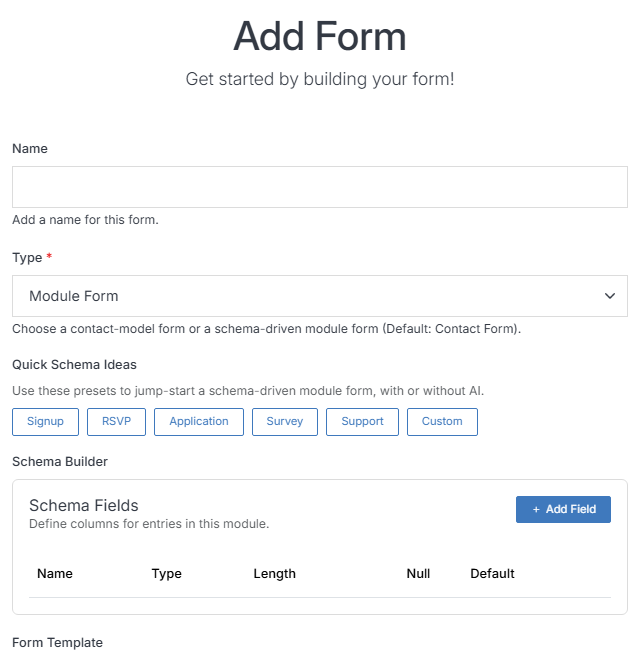
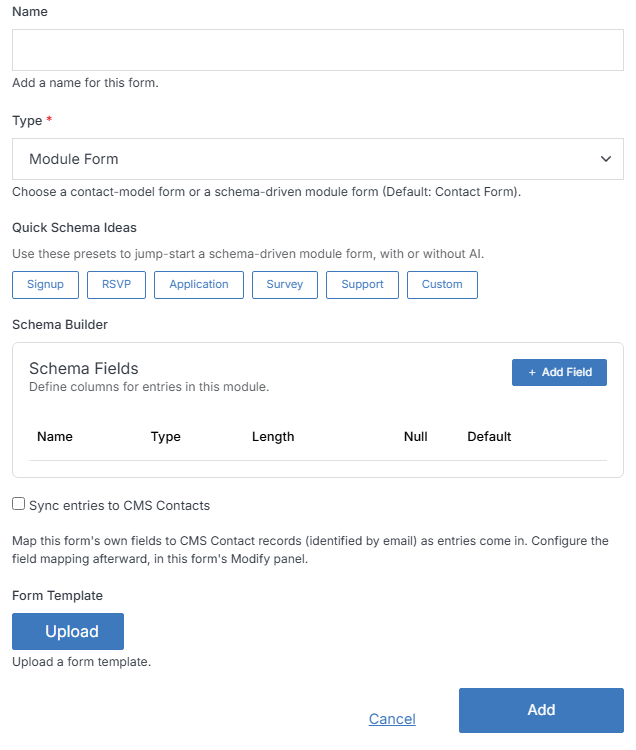
docs(forms): document CMS Contact Mapping and the Module Form sync option
Covers both Add Form options end to end:

- Add Form > Module Form: documents the new "Sync entries to CMS
  Contacts" checkbox, and re-shoots the screenshot to show it (the old
  one cut off before that part of the panel). Updated the personal-data
  warning to note this checkbox is exactly the escape hatch for it.
- Forms overview note: mentions the checkbox as a way to get Module
  Form's flexible schema without the personal-data-sprawl tradeoff the
  note otherwise warns about.
- Modify: new "CMS Contact Mapping" section (only shown once syncing is
  enabled) - the field-mapper UI, the required Email destination/
  dedupe-key behavior, the default identity mapping a form starts with,
  and that sync runs identically regardless of how an entry was
  created (CMS, public form, API, MCP). New screenshot of the section
  with a real custom mapping.

Verified with a real `retype build` - 0 errors, output checked in a
browser at both pages.

diff --git a/src/Forms/Form Overview/Modify/index.md b/src/Forms/Form Overview/Modify/index.md
@@ -93,6 +93,29 @@ Field | Which field on that module the relationship uses.
 
 Connection details for reading this form's submissions via the REST API -- identical to [Module Overview's API Info](/modules/module-overview/modify/#api-info).
 
+## CMS Contact Mapping
+
+Only appears once **Sync entries to CMS Contacts** has been turned on for this form -- either when it was [added](/forms/add-form/#module-form), or by switching it on here. Maps this form's own field names to the standard [Contact](/organization/contacts/) fields, so every submission also creates or updates a Contact record alongside its entry in this module's own table.
+
+<p><img src="../../../images/forms/form-modify-contact-mapping.png" alt="CMS Contact Mapping section with a custom field mapping"></p>
+
+**Name** | **Description**
+:--- | ---
+Add Mapping | Add a new source/destination row.
+Left column | One of this form's own field names, exactly as it appears in [Table Schema](#table-schema) -- `work_email`, `first_name`, whatever you actually called it.
+Right column | The Contact field that source maps to: **Email**, **First Name**, **Last Name**, or **Primary Phone**.
+Trash icon | Remove a mapping row.
+
+The same mapping is also editable as raw JSON underneath the row editor -- `{"work_email": "email", "first_name": "givenname"}` -- if you'd rather paste one in directly than build it row by row.
+
+!!! Note:
+**An Email destination is required.** It's the one field the sync uses to decide whether a submission is a new Contact or an update to an existing one -- resubmitting with the same email updates that Contact's name and phone rather than creating a duplicate. A mapping with no field pointed at Email won't save.
+!!!
+
+A form switched on via **Sync entries to CMS Contacts** starts with an identity mapping (`email` to Email, `givenname` to First Name, `sn` to Sn, `primaryphone` to Primary Phone) already saved -- convenient if your schema happens to use those exact names, but most schemas don't, so open this section and re-point each row at your own field names once the form's fields are in place. Source fields not present in a given submission are simply skipped, so it's safe to map more fields than any one entry actually fills in.
+
+Sync runs from the same place regardless of how an entry was created or updated -- the CMS's own Add/Update Entry, a public visitor submitting the live form, the REST API, or MCP all go through it identically.
+
 ## Advanced Options
 
 Most of this section matches [Module Overview's Advanced Options](/modules/module-overview/modify/#advanced-options) (Custom Icon, Geo-Coded Fields, Field Name to use in URL, Error Document, Asset Fields, Post Processing, Export/Delete), plus a few fields specific to public-facing forms:

diff --git a/src/Forms/Add Form/index.md b/src/Forms/Add Form/index.md
@@ -29,7 +29,7 @@ Add | Click **Add** to create the form.
 
 ## Module Form
 
-Submissions are saved to a custom module with a schema you design yourself -- the same schema builder used by [Add Module](/modules/add-module/). Every Module Form creates its own database table, so reserve this for structured, non-personal data (an RSVP count, a survey response) rather than anything that includes someone's name, email, or other personal details -- see the note on [Forms](/forms/) for why.
+Submissions are saved to a custom module with a schema you design yourself -- the same schema builder used by [Add Module](/modules/add-module/). Every Module Form creates its own database table, so reserve this for structured, non-personal data (an RSVP count, a survey response) rather than anything that includes someone's name, email, or other personal details -- unless you turn on **Sync entries to CMS Contacts** below, which is exactly for that case; see the note on [Forms](/forms/) for why.
 
 <p><img src="../../images/forms/add-form-module.png" alt="Add Form with Type set to Module Form"></p>
 
@@ -39,5 +39,6 @@ Name | The form's internal name.
 Type | **Module Form**.
 Quick Schema Ideas | One-click starting schemas -- Signup, RSVP, Application, Survey, Support, Custom -- to jump-start the form's fields, with or without AI.
 Schema Builder | Define the columns (fields) for submissions. Click **+ Add Field** to add a column, and set its Name, Type, Length, Null, and Default.
+Sync entries to CMS Contacts | Optional. Each submission also creates or updates a [Contact](/organization/contacts/), with this form's own field names mapped to the standard Contact fields (`email`, `givenname`, `sn`, `primaryphone`). Checking this box saves a starting identity mapping (each Contact field mapped to itself) that you refine afterward in [Modify > CMS Contact Mapping](/forms/form-overview/modify/#cms-contact-mapping) -- most schemas use their own field names (`work_email`, `first_name`, etc.), so plan on a quick trip there once the form's fields are in place.
 Form Template | Optionally upload a form template instead of building one from scratch.
 Add | Click **Add** to create the form.

diff --git a/src/Forms/index.md b/src/Forms/index.md
@@ -14,7 +14,7 @@ A form collects information from website visitors -- a newsletter signup, a cont
 </div>
 
 !!! Note:
-Module Form is still what most users should reach for -- it's the well-tested, familiar pattern. Contact Form is newer; try it out on a low-stakes form before leaning on it for anything important. One thing worth knowing either way: every Module Form creates its own one-off database table, and over time that can produce a sprawl of scattered, inconsistently-governed tables, especially if those tables end up holding personal information (names, emails, phone numbers) outside the centralized Contacts model. Contact Form avoids that specific problem by writing into the one shared Contacts table instead -- worth keeping in mind for any form that's collecting someone's personal details.
+Module Form is still what most users should reach for -- it's the well-tested, familiar pattern. Contact Form is newer; try it out on a low-stakes form before leaning on it for anything important. One thing worth knowing either way: every Module Form creates its own one-off database table, and over time that can produce a sprawl of scattered, inconsistently-governed tables, especially if those tables end up holding personal information (names, emails, phone numbers) outside the centralized Contacts model. Contact Form avoids that specific problem by writing into the one shared Contacts table instead. If you want Module Form's flexible, self-designed schema *and* the centralized Contacts table, turn on **Sync entries to CMS Contacts** when you [add the form](/forms/add-form/#module-form) (or later, in [Modify](/forms/form-overview/modify/#cms-contact-mapping)) -- it maps whatever field names you chose to the standard Contact fields, so entries land in both places.
 !!!
 
 The Forms dashboard lists every form in your Solodev CMS, along with its location and members.
